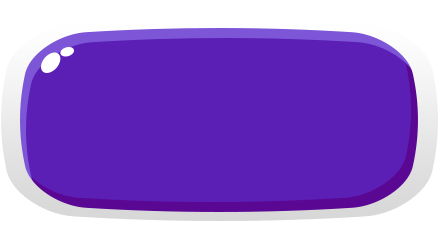
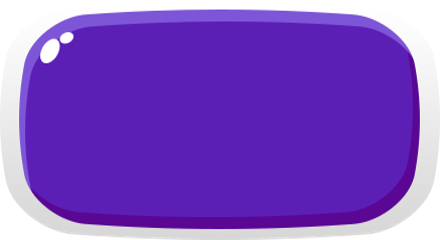
Added Win and Lose images for Win and Lose

Changed region(s): [[0.0, 0.0292, 1.0, 1.0]]

diff --git a/code/game_view.py b/code/game_view.py
@@ -180,9 +180,9 @@ def game_run(image_name, menu=None):
         final_win.addButton('Quit', sys.exit)
         if win_flag:
             print("Выиграл")
-            final_win.menu.setFon(load_image('../ui_images/BigPurple.png'))
+            final_win.menu.setFon(load_image('../ui_images/WinPlace.png'))
         else:
-            final_win.menu.setFon(load_image('../ui_images/BigPurple.png'))
+            final_win.menu.setFon(load_image('../ui_images/LosePlace.png'))
             print("Проиграл")
         final_win.go()
 

diff --git a/code/support_funcs.py b/code/support_funcs.py
@@ -10,7 +10,6 @@ def load_image(path, colorkey=None, flag=True):
         fullname = os.path.join(path)
         if not os.path.isfile(fullname):
             print(f"Файл с изображением '{path}' не найден")
-            raise
             sys.exit()
         image = pygame.image.load(fullname)
     else:
